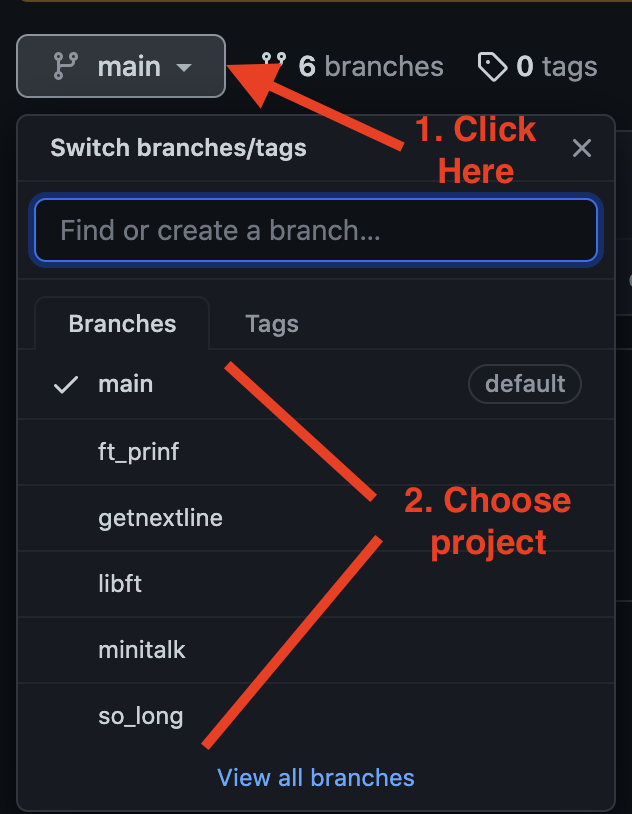
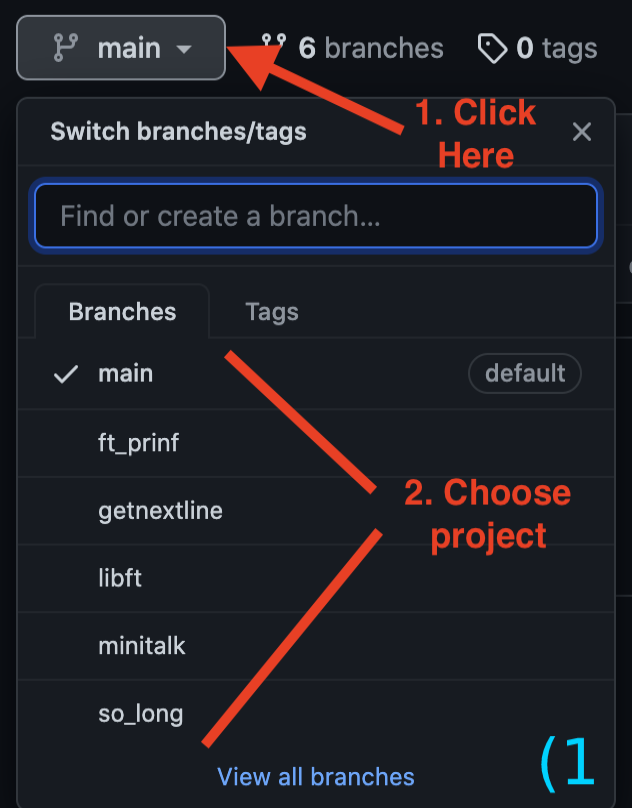
new images and readme

diff --git a/README.md b/README.md
@@ -18,9 +18,10 @@
 
 
 ### **How to see projetcs**
-<br />
-<img width="400" src="./img/howto.png" />
-<br />
+There is 2 way to explore projects;
+
+|![](./img/howto.png)|![](./img/howto2.png)|
+|:-|-:|
 
 > **!!Do not switch branch in folder.**
 ![notto](./img/example.png)
